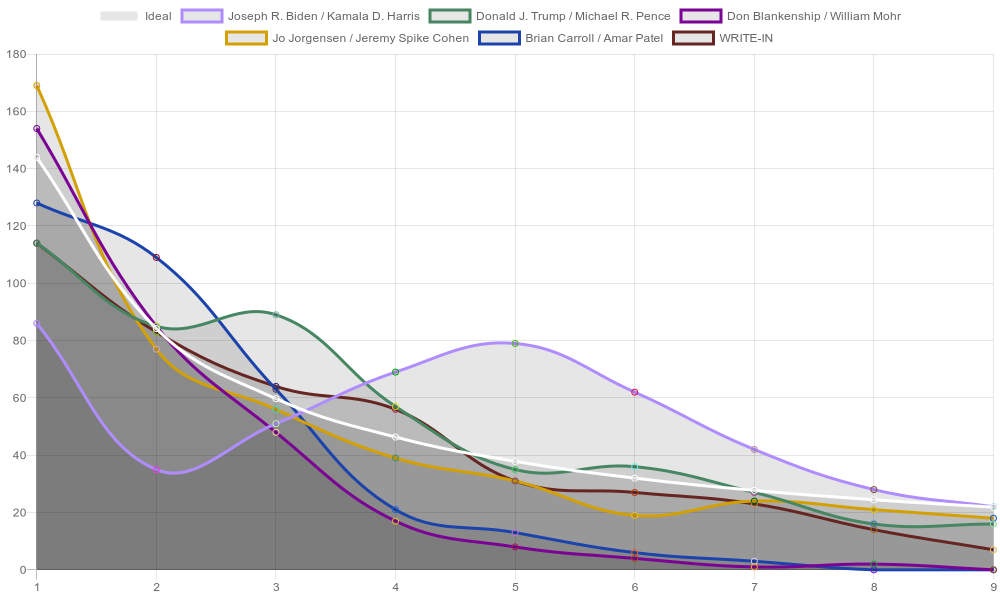
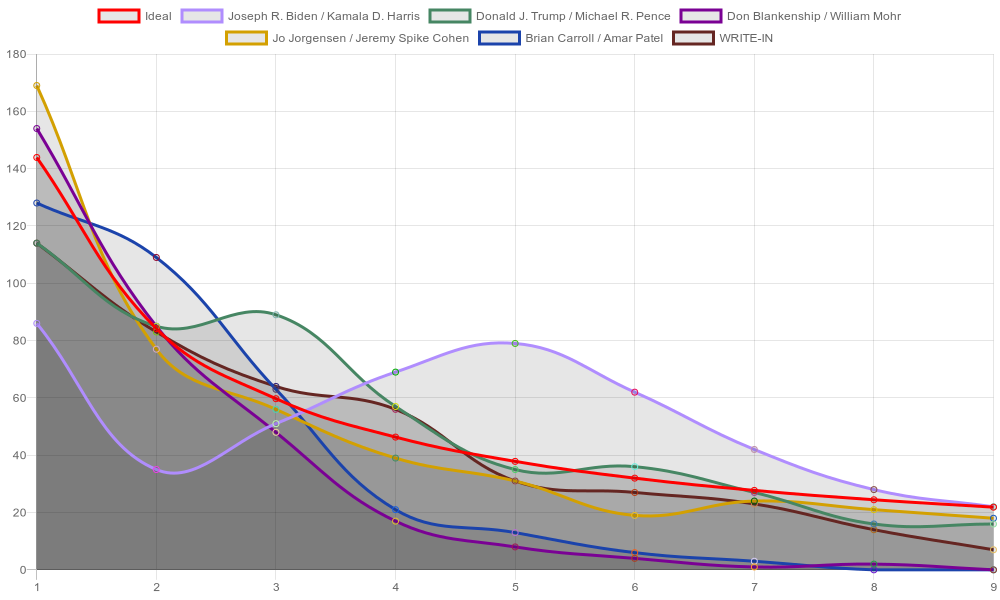
Minor changes

diff --git a/index.js b/index.js
@@ -132,16 +132,16 @@ function random_rgba() {
                         multiplier * benfordDistribution['_9']
                     ],
                     borderColor: [
-                        'rgba(255, 255, 255, 1)',
-                        'rgba(255, 255, 255, 1)',
-                        'rgba(255, 255, 255, 1)',
-                        'rgba(255, 255, 255, 1)',
-                        'rgba(255, 255, 255, 1)',
-                        'rgba(255, 255, 255, 1)',
-                        'rgba(255, 255, 255, 1)',
-                        'rgba(255, 255, 255, 1)',
-                        'rgba(255, 255, 255, 1)',
-                        'rgba(255, 255, 255, 1)'
+                        'rgba(255, 0, 0, 1)',
+                        'rgba(255, 0, 0, 1)',
+                        'rgba(255, 0, 0, 1)',
+                        'rgba(255, 0, 0, 1)',
+                        'rgba(255, 0, 0, 1)',
+                        'rgba(255, 0, 0, 1)',
+                        'rgba(255, 0, 0, 1)',
+                        'rgba(255, 0, 0, 1)',
+                        'rgba(255, 0, 0, 1)',
+                        'rgba(255, 0, 0, 1)'
                     ]
                 });
 
